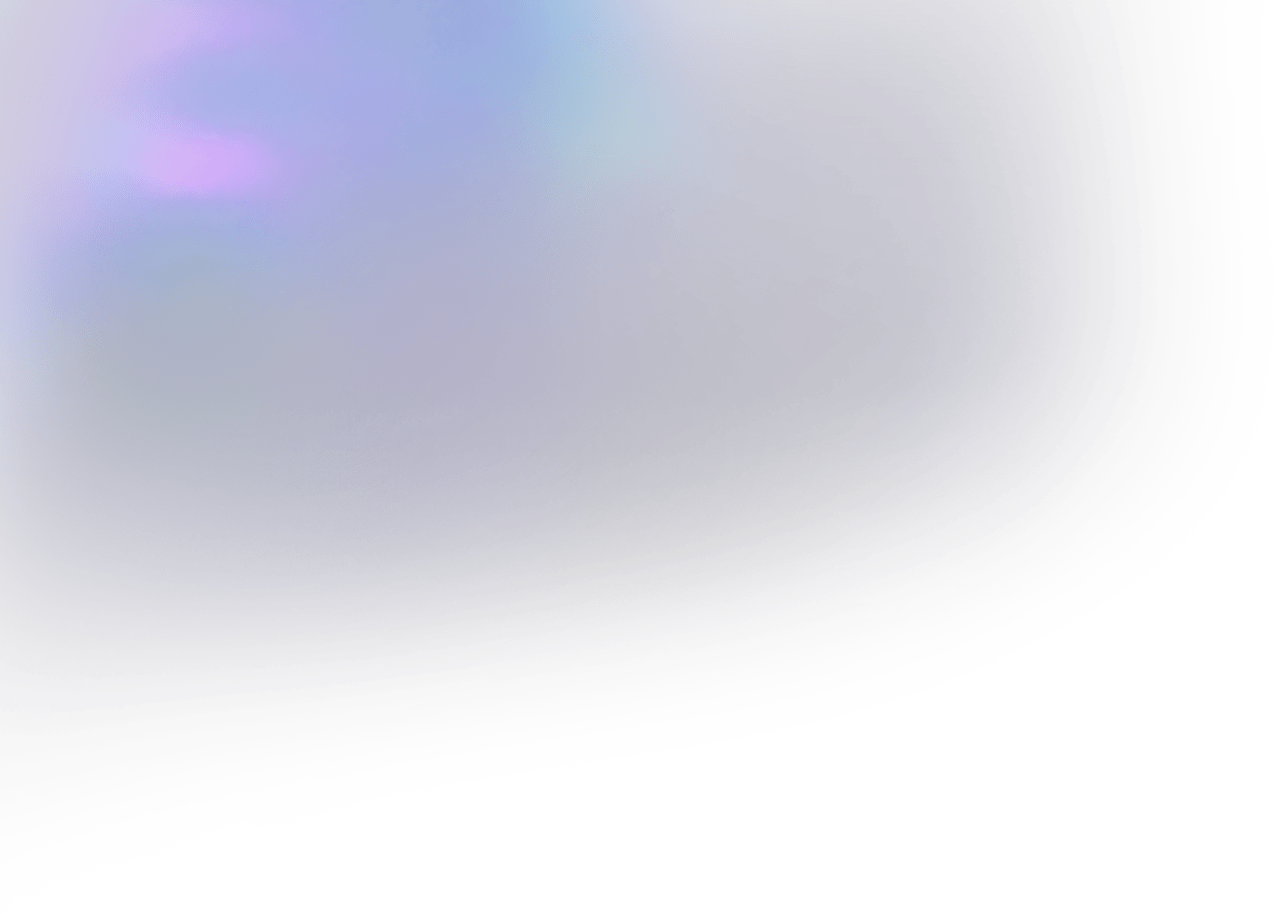
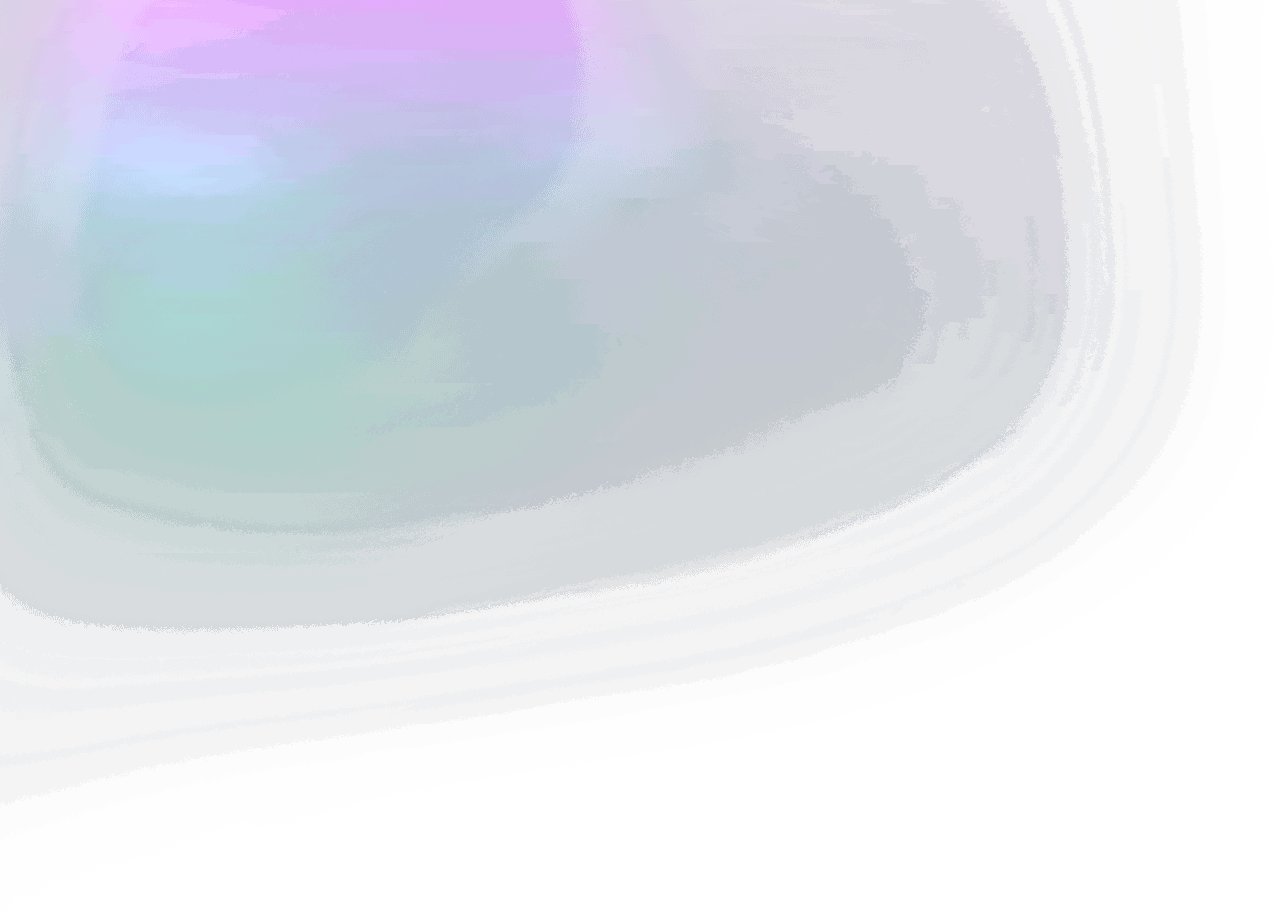
UI-6: аврора — background-*.png about/contact перекрашены под северное сияние; аврора-слой добавлен в меню и на home сверху справа (decorations/aurora-*)

Changed region(s): [[0.0305, 0.0, 0.5184, 0.4902], [0.3659, 0.2144, 0.4269, 0.3063]]

diff --git a/components/pages/shared.tsx b/components/pages/shared.tsx
@@ -92,12 +92,20 @@ export function SceneRoot() {
 
 export function SiteMenuBack() {
   return (
-    <picture className="site-menu-back">
-      <source data-srcset="/static/assets/images/menu/background-xxs.png" media="(max-width: 450px)" />
-      <source data-srcset="/static/assets/images/menu/background-m.png" media="(max-width: 815px)" />
-      <source data-srcset="/static/assets/images/menu/background-l.png" media="(max-width: 1030px)" />
-      <img data-src="/static/assets/images/menu/background-xl.png" className="js-lazy" alt="" />
-    </picture>
+    <>
+      <picture className="site-menu-back">
+        <source data-srcset="/static/assets/images/menu/background-xxs.png" media="(max-width: 450px)" />
+        <source data-srcset="/static/assets/images/menu/background-m.png" media="(max-width: 815px)" />
+        <source data-srcset="/static/assets/images/menu/background-l.png" media="(max-width: 1030px)" />
+        <img data-src="/static/assets/images/menu/background-xl.png" className="js-lazy" alt="" />
+      </picture>
+      <picture className="site-menu-aurora">
+        <source data-srcset="/static/assets/images/decorations/aurora-xxs.png" media="(max-width: 450px)" />
+        <source data-srcset="/static/assets/images/decorations/aurora-m.png" media="(max-width: 815px)" />
+        <source data-srcset="/static/assets/images/decorations/aurora-l.png" media="(max-width: 1030px)" />
+        <img data-src="/static/assets/images/decorations/aurora-xl.png" className="js-lazy" alt="" />
+      </picture>
+    </>
   );
 }
 

diff --git a/public/static/css/depress.css b/public/static/css/depress.css
@@ -976,3 +976,34 @@ html.disable-motion.no-touchevents .home-cases-scene:not(.is-visible) .home-case
     margin: 0 auto 10px;
   }
 }
+
+/* --- UI-6: северное сияние — аврора-слой сверху справа (home + меню) ---------
+   PNG-градиенты about/contact перекрашены под aurora borealis (пурпурная
+   кромка сверху → бирюза → зелёные шторы снизу, тёмно-навий небосвод и
+   полупрозрачные края сохранены). Тот же набор (decorations/aurora-*.png —
+   перекрашенный about) добавлен слоем сверху справа на главную и в меню
+   (виден при menu-open/menu-close, поверх .site-menu-back z 990, под
+   .site-menu-panel z 999). Слой декоративный: pointer-events: none. */
+
+[data-router-view="home"] .home-aurora {
+  position: absolute;
+  top: 0;
+  right: 0;
+  z-index: -2;
+  pointer-events: none;
+}
+
+.site-menu-aurora {
+  position: fixed;
+  top: 0;
+  right: 0;
+  z-index: 991;
+  pointer-events: none;
+  transition: opacity 0s;
+  opacity: 0;
+}
+
+.menu-close .site-menu-aurora,
+.menu-open .site-menu-aurora {
+  opacity: 1;
+}

diff --git a/components/pages/home.tsx b/components/pages/home.tsx
@@ -142,6 +142,13 @@ function HomeContent({ t, locale, path, href }: PageContentProps) {
               <img data-src="/static/assets/images/home/background-xl.png" className="js-lazy" alt="" />
             </picture>
 
+            <picture className="home-aurora js-in-view appear-fade">
+              <source data-srcset="/static/assets/images/decorations/aurora-xxs.png" media="(max-width: 450px)" />
+              <source data-srcset="/static/assets/images/decorations/aurora-m.png" media="(max-width: 815px)" />
+              <source data-srcset="/static/assets/images/decorations/aurora-l.png" media="(max-width: 1030px)" />
+              <img data-src="/static/assets/images/decorations/aurora-xl.png" className="js-lazy" alt="" />
+            </picture>
+
             <section className="home-hero js-in-view">
               <h2 className="u-visually-hidden">{t("home.hero.hiddenTitle")}</h2>
 
